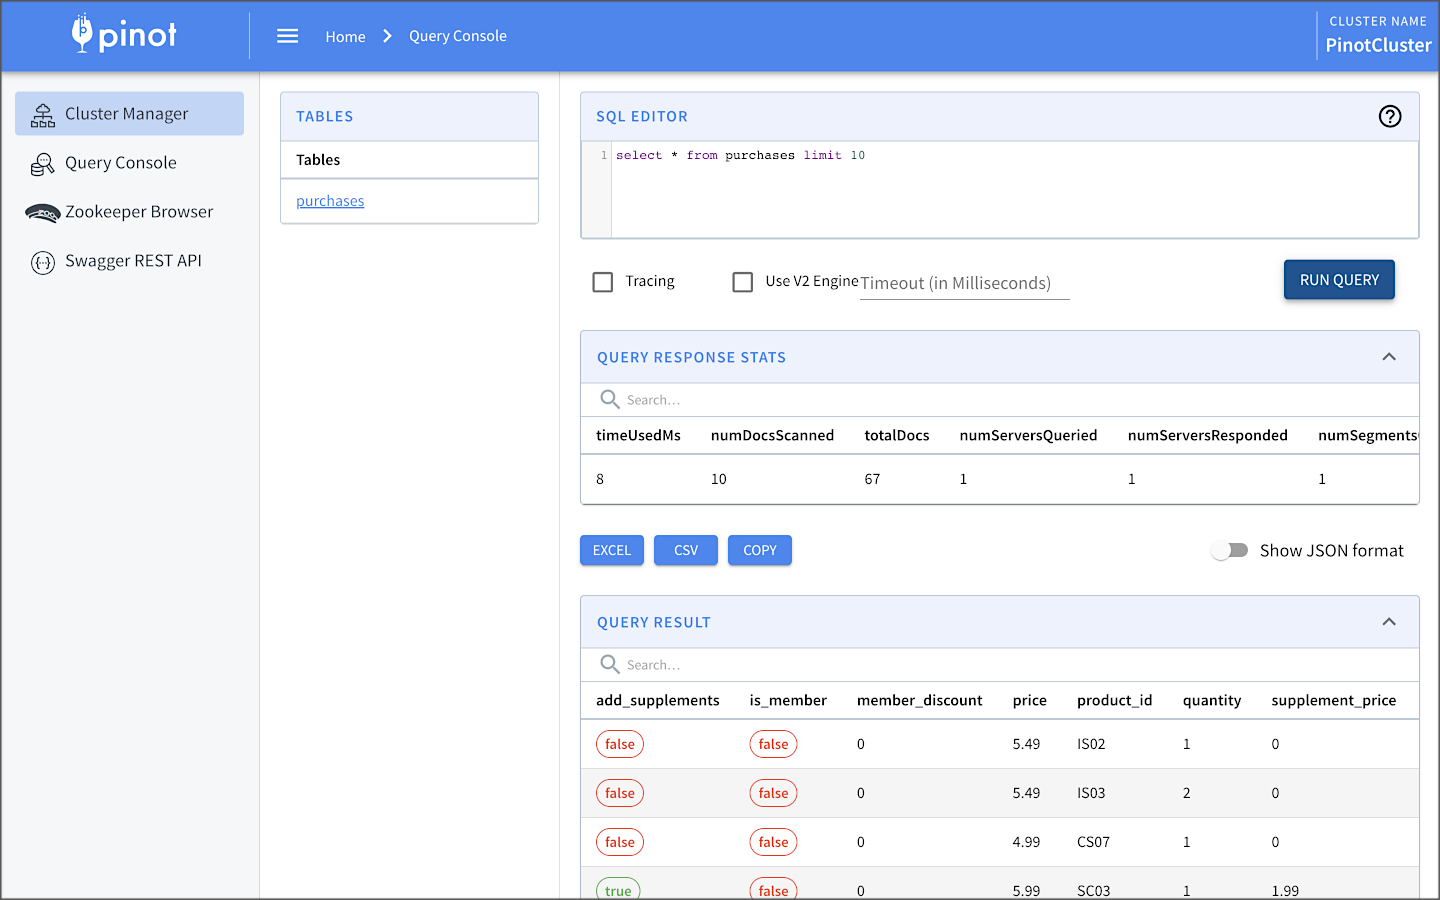
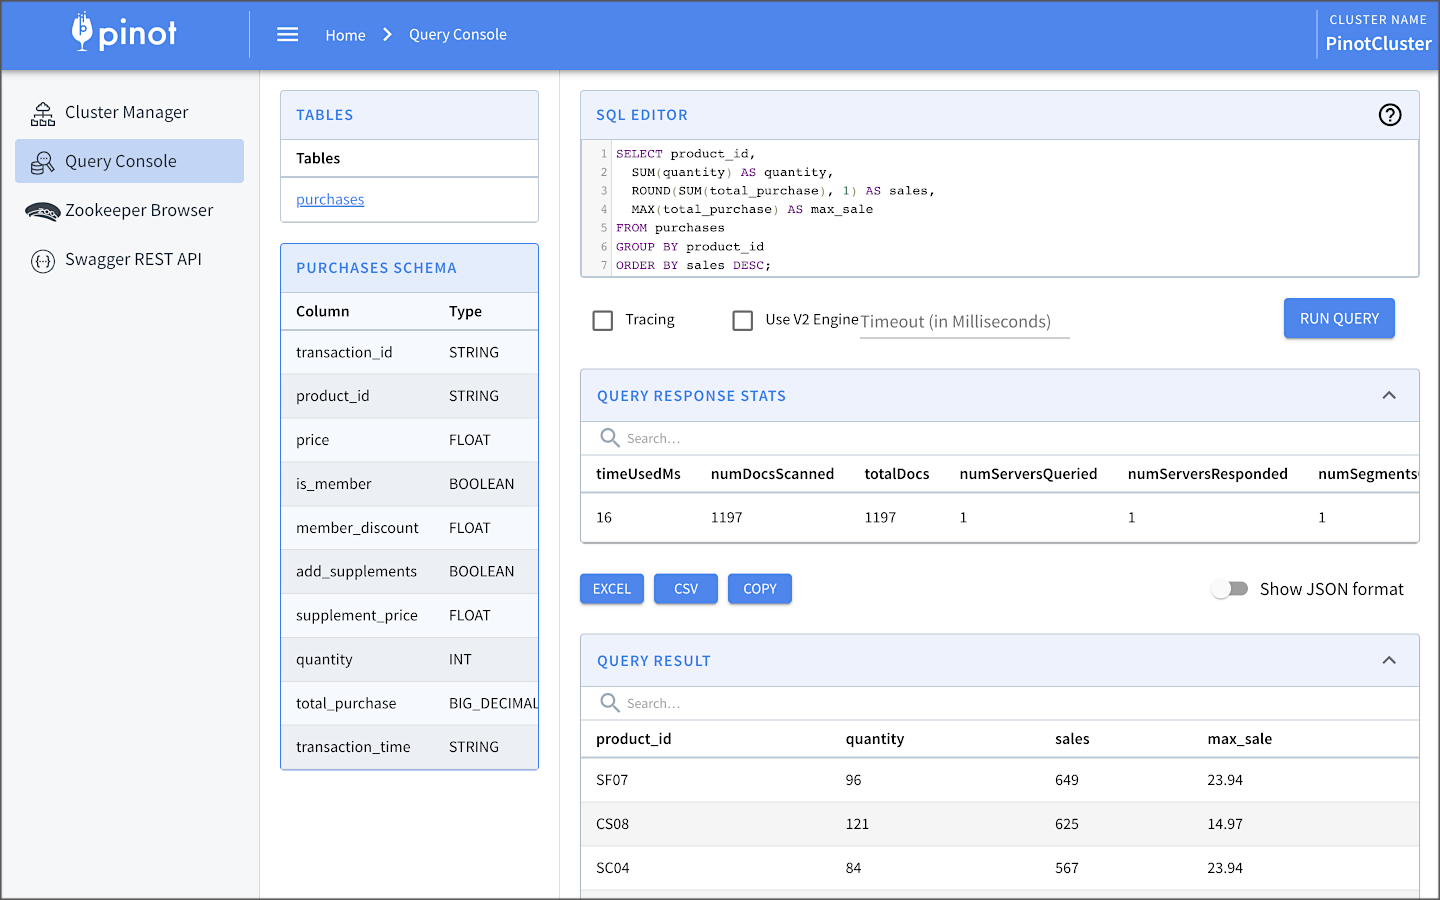
Adding Apache Pinot examples

diff --git a/apache_pinot_examples/README.md b/apache_pinot_examples/README.md
@@ -26,6 +26,19 @@ bin/pinot-admin.sh AddTable \
   -schemaFile /tmp/purchases-schema.json -exec
 ```
 
+Sample SQL Statements
+
+```sql
+SELECT product_id,
+  SUM(quantity) AS quantity,
+  ROUND(SUM(total_purchase), 1) AS sales,
+  MAX(total_purchase) AS max_sale
+FROM purchases
+GROUP BY product_id
+ORDER BY sales DESC
+LIMIT 10;
+```
+
 ## Preview
 
 ![Pinot UI](screengrabs/pinot_ui.png)
